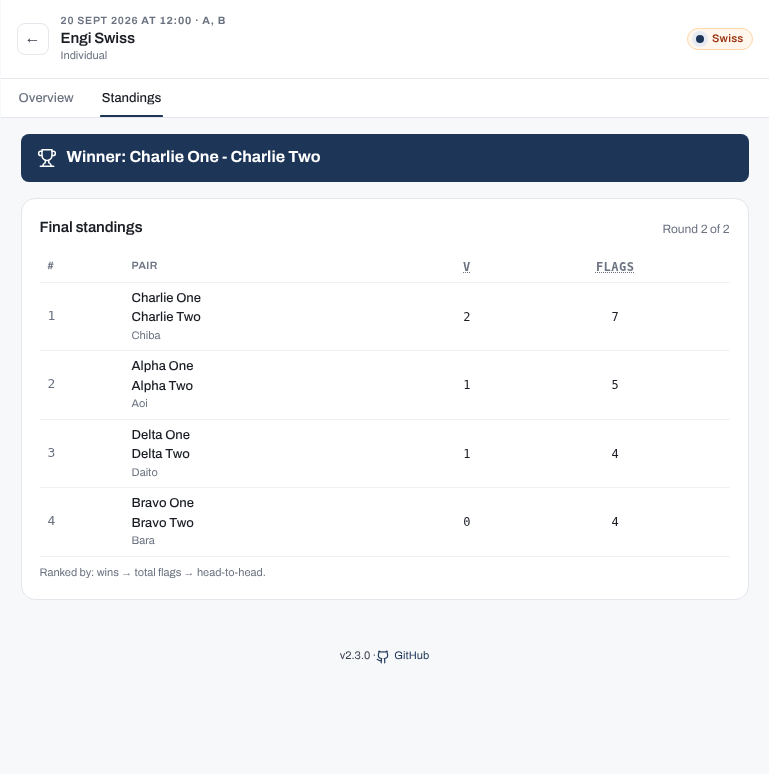
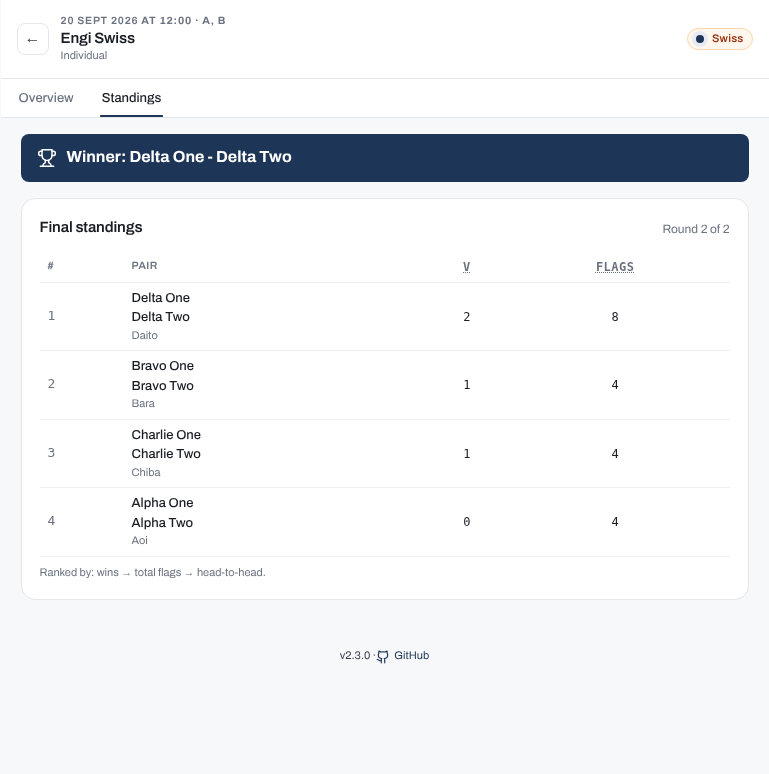
test(bc-hkal): cover the WAL's Done paths, and recapture the Swiss docs standings
- wal.Done now removes through a root on its folder (58a55e5f), which
  left the folder-gone, folder-not-a-folder and remove-error paths
  untested and the package at 85.1%; three tests cover them (89.7%).
- The Swiss round-1 order changed in this branch (064c1447), so the two
  Swiss standings docs screenshots showed the old pairing's results;
  both are recaptured. Their alt text names no result and still holds.

diff --git a/internal/state/wal/wal_test.go b/internal/state/wal/wal_test.go
@@ -320,6 +320,45 @@ func TestDone_NoFileIsNoop(t *testing.T) {
 	assert.NoError(t, err)
 }
 
+// TestDone_WALFolderGoneIsNoop verifies that Done returns nil when the
+// WAL folder itself has gone: nothing is left to remove.
+func TestDone_WALFolderGoneIsNoop(t *testing.T) {
+	dir := filepath.Join(t.TempDir(), ".wal")
+	w, err := BeginTx(dir, "tx-folder-gone", directWrite)
+	require.NoError(t, err)
+	require.NoError(t, os.RemoveAll(dir))
+
+	assert.NoError(t, w.Done())
+}
+
+// TestDone_WALFolderNotAFolderErrors verifies that Done reports a WAL
+// folder it cannot open (here a file stands in its place), naming the
+// transaction.
+func TestDone_WALFolderNotAFolderErrors(t *testing.T) {
+	dir := filepath.Join(t.TempDir(), ".wal")
+	w, err := BeginTx(dir, "tx-folder-file", directWrite)
+	require.NoError(t, err)
+	require.NoError(t, os.RemoveAll(dir))
+	require.NoError(t, os.WriteFile(dir, []byte("x"), 0o600))
+
+	err = w.Done()
+	require.Error(t, err)
+	assert.Contains(t, err.Error(), `wal.Done "tx-folder-file"`)
+}
+
+// TestDone_RemoveErrorIsReported verifies that Done reports a WAL entry
+// it cannot remove (here a non-empty folder stands at its path).
+func TestDone_RemoveErrorIsReported(t *testing.T) {
+	dir := t.TempDir()
+	w, err := BeginTx(dir, "tx-remove-err", directWrite)
+	require.NoError(t, err)
+	require.NoError(t, os.MkdirAll(filepath.Join(w.path, "child"), 0o750))
+
+	err = w.Done()
+	require.Error(t, err)
+	assert.Contains(t, err.Error(), `wal.Done "tx-remove-err"`)
+}
+
 // TestCommit_WriteFnError verifies that Commit surfaces the write-fn
 // error (the "write the WAL file itself" step) and the WAL remains
 // uncommitted.
